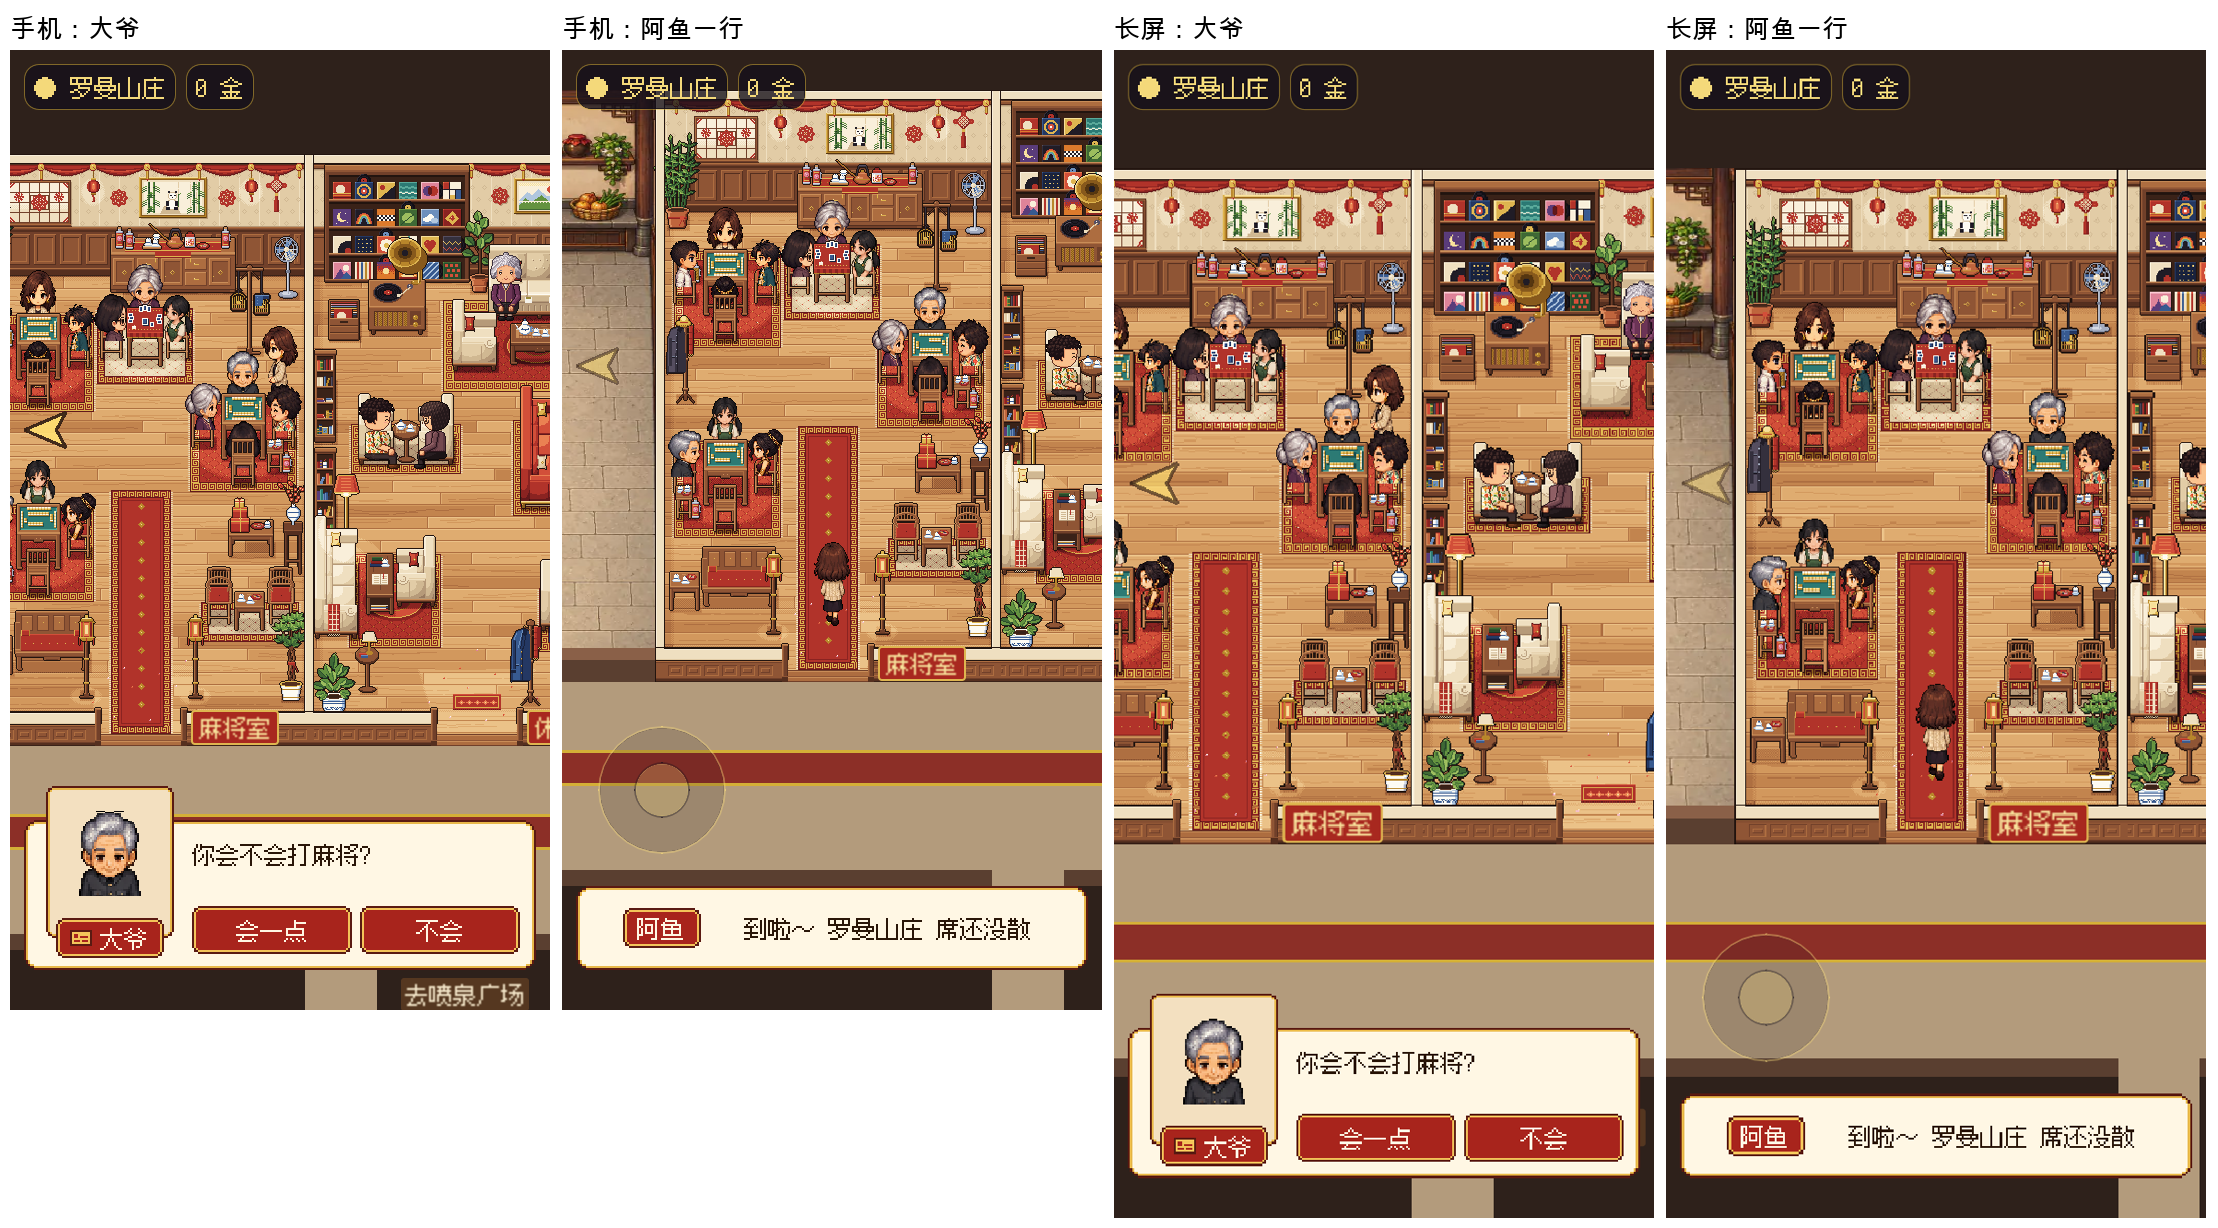
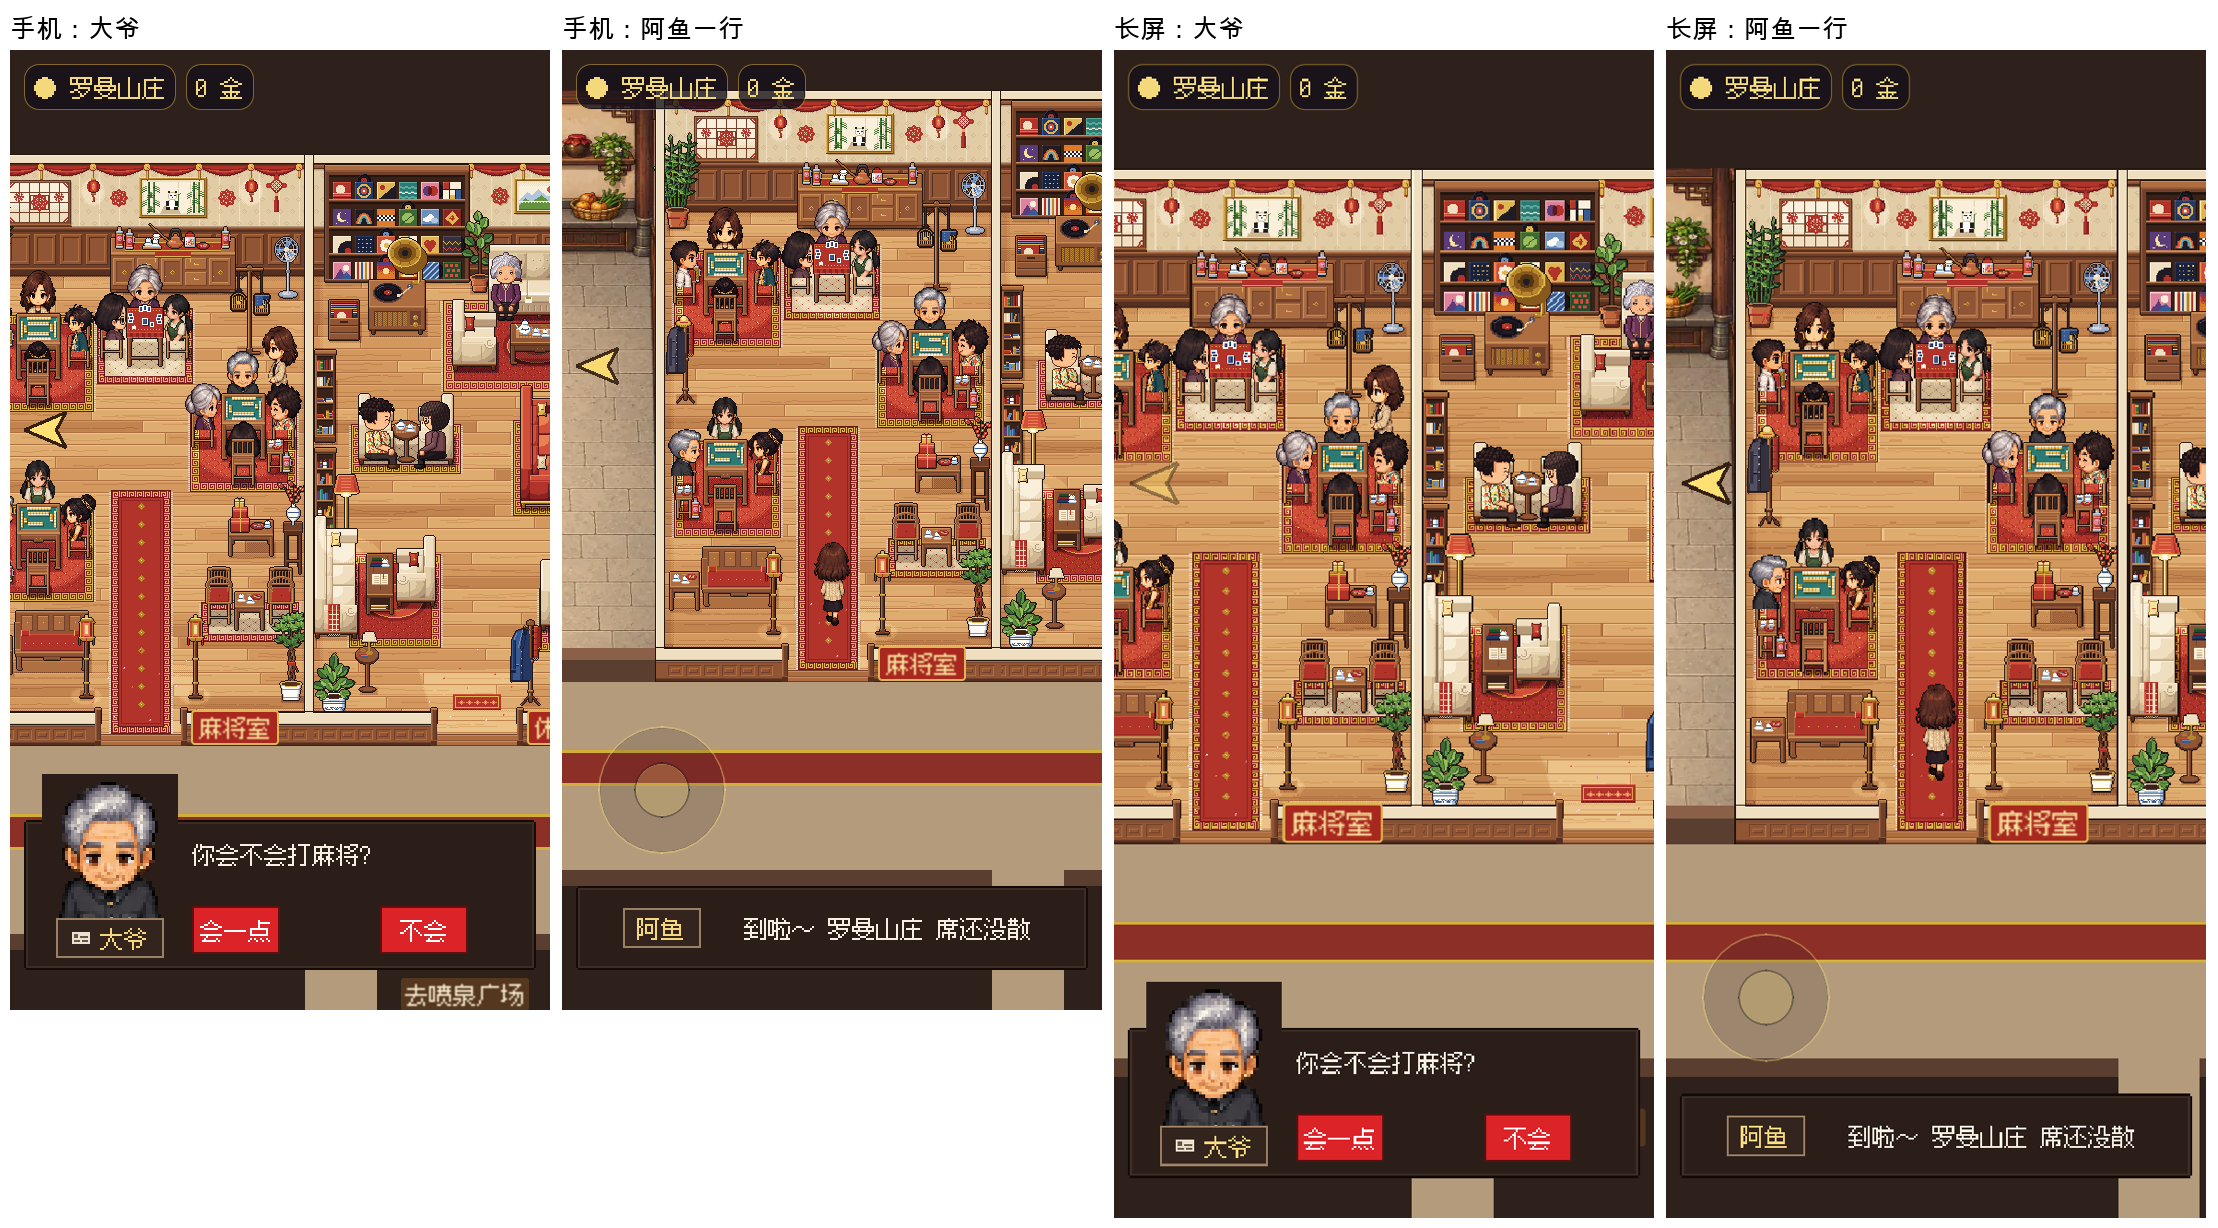
对话框照阿鱼画的一模一样：深褐底白字、头像不加框整数倍放大顶出框、深色名字牌带卡片图标、红按钮按字宽一行；冒泡白底、提示泡深褐，全部像素硬边
- scripts/ui/dialog_skin.gd：配色表、圆角收小（框 3 格、小件 2 格）、头像照 lm_index.json 的 front 按整数倍铺满（不读图）、选项按字宽（最窄 88、高 48、间距照图 8～100）
- 回执/对话框B铺开-回执.md 加第三轮；照阿鱼的图-对照.png、两张总图重截

diff --git a/godot/回执/对话框B铺开-回执.md b/godot/回执/对话框B铺开-回执.md
@@ -1,15 +1,32 @@
-# 冒泡和对话框：B 全游戏铺开 · 回执
+# 冒泡和对话框：全游戏铺开（照阿鱼画的） · 回执
 
 > 05，2026-10-04，ui-dialog 分支（合了 main 33a1aa7，第二轮前又合了 main 04da112）。01 H 派。阿鱼原话：「全游戏通用的角度你觉得那个合适？我看起来 B 最合适全局通用 不过布局可以换成这样，
 > 身份卡 只用 icon 放到名字前就行了，点击头像就可以展开；NPC 的话放在对话框大部分，超长可以点翻页；最后一行放选择 btn，通用一行展示完成。其他 npc 的小气泡也用同样的配色」
 > 布局图：`docs/参考图/对话框布局-阿鱼10-04.png`。上一步三种样子的回执：`对话框三种样子-回执.md`。不合 main、不出码。
 
-## 结论
+## 结论（第三轮，照阿鱼画的一模一样）
 
-全游戏的对话框、头顶冒泡换成 B（米白底、深红边、一道金线），排法照阿鱼的图：
-- **对话框**：头像在左边、往上顶出框沿；名字牌压在头像下边、名字前一个身份卡小图标（右上角那个「身份卡」按钮去掉）；点头像或名字牌展开身份卡；话占头像右边大部分，一屏放不下点一下翻页（右下小三角）；最后一行放选项、一行排完；没头像（新娘、阿鱼）名字牌照旧在左下、不放图
-- **冒泡、「这里能点」提示泡、走到头气泡、开场页角色气泡**：米白底、深红（提示泡是金）描边，圆润、留白多
-- 字一个个出，点一下先出完这一页、再点翻页、再点下一句；标点不放行首
+01 10/4 更正：先前把「B」当成了米白配色、让我留米色，阿鱼要的是**他画的那张图一模一样**。阿鱼回话：冒泡「白底，注意像素风」。现在全游戏是：
+- **对话框**：深褐底、白字；头像**不加框**，垫一块跟框同色的深褐底，大大地顶出框上沿、占左边；名字牌深褐底、浅褐描边、黄字，压在头像下沿，名字前一个卡片小图标；点头像或名字牌开身份卡；话占右边大部分，一屏放不下点一下翻页（右下白色小三角）；最后一行红按钮、白字，**照图按字宽排**（不平分一行），从话的左边起，中间空照图（两个时空约 100，挤的时候收到 8），一行排完；按钮最窄 88、高 48（01 的底线：能点的范围宽 ≥88、高 ≥44）；没头像（新娘、阿鱼）名字牌在左边、不放图
+- **头顶冒泡、走到头气泡、开场页角色气泡**：白底黑字、两格粗的深褐像素描边、台阶式圆角、带小尾巴
+- **「这里能点」提示泡**：跟对话框一样深褐底、白色小图标
+- **像素风**：框、名字牌、按钮、冒泡全是运行时一格一格生成的图，硬边整格、不插值，没有平滑圆角、渐变、半透明；头像按**整数倍**放大（不糊）；字是像素字 24 那档
+- 字一个个出，点一下先出完这一页、再点翻页、再点下一句；标点、右引号不放行首，左引号不留行尾
+- **说的话带“”**：07 在 map69 加（lounge_ui 的 line_label、main._say 有说话人的），冒泡、旁白不加；合 main 以后对话框里就带引号。这个分支上还没有，所以截图里的话没有引号
+
+## 第三轮改了什么（10/4，01 H 转阿鱼的准话）
+
+| 地方 | 第二轮（米色） | 第三轮（照阿鱼的图） |
+| --- | --- | --- |
+| 对话框 | 米白底、深红边、金线，圆角 8 格 | 深褐 #2b1e18 底、更深的外边、一道稍亮的里线，圆角 3 格（阿鱼画的是方角，像素风留一个小台阶） |
+| 头像 | 套在米色小框里，按比例缩小、居中，显得小 | 不加框，底子跟框同色；量出人物实际占的那块，按整数倍放大铺满左边一栏，头顶留一点，下面裁掉、名字牌压住；比原来大一圈（136×164） |
+| 名字牌 | 红底金线、米白字 | 深褐底、浅褐描边、黄字；卡片图标浅色 |
+| 正文、小三角 | 深褐字、红三角 | 白字、白三角 |
+| 选项 | 红底金线、圆角 5 格，平分一行 | 红 #dc2328 底、深红外边、白字，圆角 2 格；按下深一档；**按字宽排、最窄 88**，间距照图（大爷两个：中间空 100；奶奶三个：要 320、有 328，放得下） |
+| 冒泡 | 米白底、深红边 | 白底、深褐边、黑字 |
+| 「这里能点」 | 米白底、金边、红图标 | 深褐底、白图标 |
+
+只改了 `scripts/ui/dialog_skin.gd`（配色表、圆角、头像那几行、选项按字宽）；排法、分页、镜头上抬、阿鱼一行框、选项一行、引号换行都没变。身份卡、看人卡本身还是旧样子（第二步）。
 
 ## 04 看完 B 的四条（10/4 第二轮，01 H 转）
 
@@ -63,7 +80,7 @@
 
 | 文件 | 改了什么 | 跟谁撞 |
 | --- | --- | --- |
-| `scripts/ui/dialog_skin.gd` | **第二轮**：框开着镜头往下让（`_lift_tick`，镜头 offset + 临时放宽 limit_bottom）、选项高 48、没头像一行的框收矮居中、阿鱼的框下沿钉回屏幕底、`_frame` 往上长。**第一轮**：选项按钮两边留白 10 → 6；只留 B 一套（A、C 拿掉）；对话框照阿鱼的排法重写：头像框（点了开身份卡）、名字牌带图标（点了也开）、分页、选项一行、量一行放不放得下（`choices_fit`）；冒泡、提示泡换 B 配色；开场页能用的气泡底子、小尖 | — |
+| `scripts/ui/dialog_skin.gd` | **第三轮**：照阿鱼的图换配色（深褐框白字、深色名字牌、红按钮、白底冒泡、深褐提示泡）、圆角收小、头像不加框按整数倍铺满、选项按字宽排（最窄 88）、分页时右引号不放行首左引号不留行尾。**第二轮**：框开着镜头往下让（`_lift_tick`，镜头 offset + 临时放宽 limit_bottom）、选项高 48、没头像一行的框收矮居中、阿鱼的框下沿钉回屏幕底、`_frame` 往上长。**第一轮**：选项按钮两边留白 10 → 6；只留 B 一套（A、C 拿掉）；对话框照阿鱼的排法重写：头像框（点了开身份卡）、名字牌带图标（点了也开）、分页、选项一行、量一行放不放得下（`choices_fit`）；冒泡、提示泡换 B 配色；开场页能用的气泡底子、小尖 | — |
 | `scripts/lounge_ui.gd`（07） | `choices` 类型 `VBoxContainer` → `BoxContainer`（选项改成一行）；`next_line` 多 2 行：有下一页先翻页 | 02 F 在 room01 动化妆间三位的冒泡和对话（makeup.json、lounge_life.gd）：我没改行为；合的时候 lounge_ui 这几行、lounge_life 画气泡那段会碰到同一个文件 |
 | `scripts/lounge_life.gd`（07） | 上一步已换画法、加同屏最多两个；这次没再动 | 同上 |
 | `scripts/title_screen.gd` | 开场页气泡底子、小尖换成同一套 | — |
@@ -89,8 +106,11 @@
 
 | 项 | 结果 |
 | --- | --- |
+| 第三轮（照阿鱼的图） | `对话框B铺开/照阿鱼的图-对照.png`（阿鱼画的、手机、长屏三张上下排）；两张总图重截（新配色）；`test_dialog_lift` 两种屏全过 |
 | 第二轮四条 | `test_dialog_lift` 两种屏全过；`对话框B铺开/04反馈-镜头上抬和一行框.png`（手机、长屏：大爷说话镜头抬、阿鱼一行居中） |
 | 截图（手机 540×960、长屏 1170×2532，第二轮重截） | `对话框B铺开/B铺开-手机540x960.png`、`B铺开-长屏1170x2532.png`：大爷两选项、奶奶三选项一行、长句第 1 页 / 第 2 页、点头像身份卡、新娘没头像、冒泡＋这里能点、阿鱼说话、走到头、打字三连拍、开场页气泡 |
+| 全套测试（第三轮） | 85 过；没过 9 个＝那 4 个跟新规矩冲突的 + test_map + `test_park_sign_check`、`test_signs68_check`（同第二轮，跟对话框无关）+ **`test_build57_walk`、`test_build60_walk` 超时**：跑的时候机器负载 25～50（别的项目、07 测第 69 版的 Godot 同时在跑）。我把这次的代码和上一个 commit 0d6144a 放在一起同时跑 build60_walk，25 分钟都没跑完，停下时进度一模一样（同样 539 行、都刚切到喷泉广场），所以是机器忙，不是对话框变慢了；第二轮负载低时 build60_walk 175 秒能过。请 03 在机器空的时候复测这两个 |
+| 头像不读图 | 量人物占多大照 `lm_index.json` 里离线量好的 front，不在游戏里读回图（`test_no_readback` 过） |
 | 全套测试（第二轮） | 87 过（多了新的 `test_dialog_lift`）；没过 7 个＝那 4 个跟新规矩冲突的 + test_map（没有 RESULT 行）+ `test_park_sign_check`、`test_signs68_check`（03 给第 68 版 drive68 写的验收，合 main 04da112 带进来；在没有这次改动的 HEAD 上单跑也不过，跟对话框无关） |
 | 全套测试（第一轮） | 86 过；没过的 5 个＝那 4 个跟新规矩冲突的（上一节）+ test_map（照旧没有 RESULT 行） |
 | 卡不卡 | 冒泡、框的像素图画一次存着、以后共用：没存之前 `test_build60_walk`（快进走遍各块）从 206 秒拖到 372 秒、超过全套每个 300 秒的时限；存了以后 175 秒，比 main 还快 |
@@ -104,6 +124,4 @@
 
 ## 给阿鱼
 
-对话框照你画的改好了：头像在左边、顶出框；名字前面一个小卡片图标，点头像或名字就打开身份卡；话占大半个框，太长会分页，点一下翻下一页；选项在最后一行排开。所有人的气泡也换成了同一套米白配深红，圆圆的。按钮上的字照你说的精简了：「再换一个试试」改成「换一个」，奶奶的「新娘那边的」「新郎那边的」改成「新娘那边」「新郎那边」，三个选项现在一行放得下。
-
-04 看完以后又改了四处：底色还是米色；对话框打开时，画面会往上挪一点，你和说话的人都露在框上面，关了框再挪回来；选项按钮加高了一点；阿鱼说话那种一行的框收矮了，名字和话排在一条线上。字没法调到 22：游戏用的像素字只有 24 和 36 两档清楚，36 会让奶奶的三个选项放不下，所以还是 24。
+对话框照你画的那张改了：深褐底白字，头像不加框、大大地从框上面冒出来，名字牌是深色的、压在头像下面，名字前面有个小卡片图标，选项是红按钮排一行。头顶的冒泡是白底黑字、深色描边，圆圆的；能聊天的人头上那个小「…」提示是深褐的。全部是一格一格的像素边，头像按整数倍放大，不会糊。人说的话加引号这件事 07 在做，合到一起以后对话框里就会带“”。对照图在 `对话框B铺开/照阿鱼的图-对照.png`。
